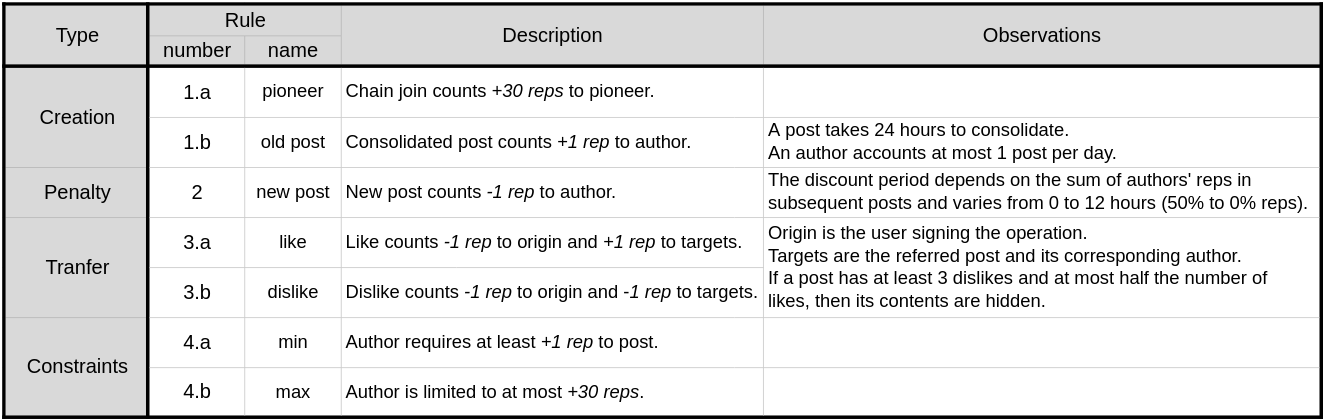
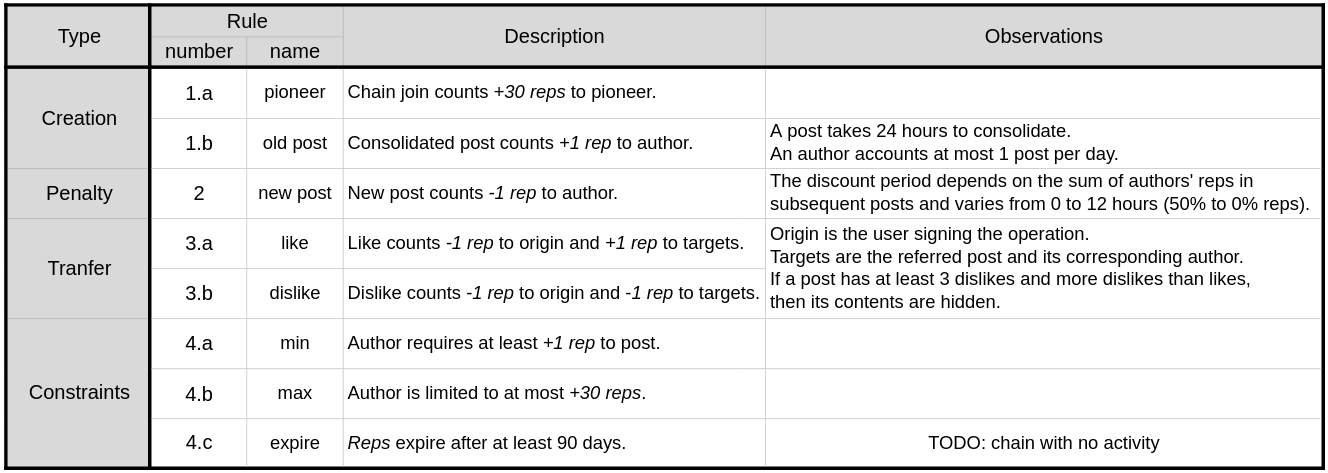
...

Changed region(s): [[0.0, 0.0, 1.0, 1.0]]

diff --git a/tpd-21.tex b/tpd-21.tex
@@ -567,7 +567,7 @@ Then, a new user with \nreps{0} tried to post a message
 the red background suggests.
 Then, the pioneer likes the \emph{newbie} message, which reduces his balance to
 \nreps{28} and increments new user's to \onerep (rule~\texttt{3.a}, which is
-immediatelly consumed by the blocked post.
+immediately consumed by the blocked post.
 At the end, the pioneer has \nreps{28} and the new user remains with \nreps{0}
 but with his post accepted.
 Note that the overall balance is -\nreps{2} from the penalties in the two post
@@ -577,14 +577,14 @@ recovered (rule~\texttt{2}):
     the pioneer goes to \nreps{29} and the new user to \onerep, which sum up to
     the pioneer's original \nreps{30}.
 
-With no additional rules to generate \reps, the inital \nreps{30} would
+With no additional rules to generate \reps, the initial \nreps{30} would
 constitute the whole ``chain economy'' forever.
 In order to stimulate content creation and grow the economy of chains,
 rule~\texttt{1.b} awards authors with \onerep 24 hours after each post.
 This period allows other users to judge the post before awarding the author,
 and also regulates the growth speed of the chain.
 Hence, 24 hours after the commands above, the pioneer would accumulate
-\nreps{30} and the new user \nreps{2}, growing the total chain ammount in
+\nreps{30} and the new user \nreps{2}, growing the total chain amount in
 \nreps{2} as result of the two consolidated posts.
 Rule~\texttt{1.b} awards at most one post per day per author, i.e., with 10
 posts in 7 days an author would collect \nreps{7}.
@@ -594,41 +594,26 @@ incentivizes them to spend likes and promotes decentralization in the network.
 Likes and dislikes (rules \texttt{3.a} and \texttt{3.b}) serve three purposes:
     (a) welcoming new users, (b) measuring the quality of posts, and
     (c) censoring abuse (SPAM, fake news, illegal content).
+%
 The reputation of a given post is the difference between its likes and
 dislikes, which can be used for end-user software for filtering and
 highlighting purposes.
+%
+The quality of posts is subjective and is up to users to judge with likes,
+dislikes, or simply abstaining.
+On the one hand, since \reps are finite, users need to ponder and avoid
+indiscriminate expenditure.
+On the other hand, \reps limited to at most \nreps{30} per author and expire
+after 90 days (rules~\texttt{4.b} and~\texttt{4.c}).
+The scarcity and limits work together towards the chain quality.
+%
 Note that a dislike shrinks the chain economy since it removes \reps from both
 the origin and target.
-The contents of a post may be hidden by the network if it has at least 3
-dislikes and the number of dislikes is higher than the number of likes.
-
-A post has three possible states: \emph{BLOCKED}, \emph{ACCEPTED}, or
-\emph{HIDDEN}.
-Figure~\ref{fig.state} specifies the transitions between the states.
-%
-If the author has reputation, the post is immediately accepted.
-Otherwise, it is blocked and requires a like from another user.
-%
-Blocked posts are not considered part of the chain DAG in the sense that new
-posts do not link back to it.
-Peers are not required to hold blocked posts and neither retransmit them to
-other peers.
-However, if they do not reach other users, they will never have the chance to
-be welcomed with a like.
-A reasonable policy for blocked posts is to hold them in a temporary queue and
-retransmit them to a small extent for some visibility.
-%
-Once accepted, the post becomes part of the chain and can never be removed
-again since Merkle DAGs are immutable by design.
-%
-If the number of dislikes exceed the threshold, the post payload becomes
-hidden, i.e., it is not retransmited to other peers and should be removed from
-local storage.
-The Merkle DAG depends only on the hash of the payload, hence, it is not a
-problem to hide it since the DAG itself contains the dislikes that prove the
-state of the post.
-Also, if the post receives new likes and changes its state, it means that the
-payload is still known and peers can request it when synchronizing again.
+The contents of a post may be hidden by the network, as detailed next, if it
+has at least 3 dislikes and the number of dislikes is higher than the number of
+likes.
+Considering that \reps are scarce, dislikes are more directed to combat abuse,
+but not to eliminate divergence of opinion.
 
 \begin{figure}[ht]
 \centering
@@ -642,7 +627,40 @@ payload is still known and peers can request it when synchronizing again.
 \label{fig.state}
 \end{figure}
 
+A post has three possible states: \emph{BLOCKED}, \emph{ACCEPTED}, or
+\emph{HIDDEN}.
+Figure~\ref{fig.state} specifies the transitions between the states.
+%
+If the author has reputation, the post is immediately accepted.
+Otherwise, it is blocked and requires a like from another user.
+Blocked posts are not considered part of the chain DAG in the sense that new
+posts do not link back to it.
+%
+Peers are not required to hold blocked posts and neither retransmit them to
+other peers.
+However, if they do not reach other users, they will never have the chance to
+be welcomed with a like.
+A reasonable policy for blocked posts is to hold them in a temporary queue and
+retransmit them to a small extent for some visibility.
+%
+Once accepted, the post becomes part of the chain and can never be removed
+again since Merkle DAGs are immutable by design.
+Note that blocked posts that become accepted must always be succeeded by a
+\emph{like} (Figure~\ref{fig.forum}).
+%
+If the number of dislikes exceed the threshold, the post payload becomes
+hidden, i.e., it is not retransmitted to other peers and should be removed from
+local storage.
+The Merkle DAG depends only on the hash of the payload, so it is not a problem
+to hide it since the DAG itself contains the dislikes that prove the state of
+the post.
+Also, if the post receives new likes and changes its state, it means that the
+payload is still known somewhere and peers can request it when synchronizing
+again.
+
 \subsection{TODO}
+
+- users that work twice, bots
 
 Terminar com "@!xxx" dizendo que vale reps mas que owner pode "intervene"
 
